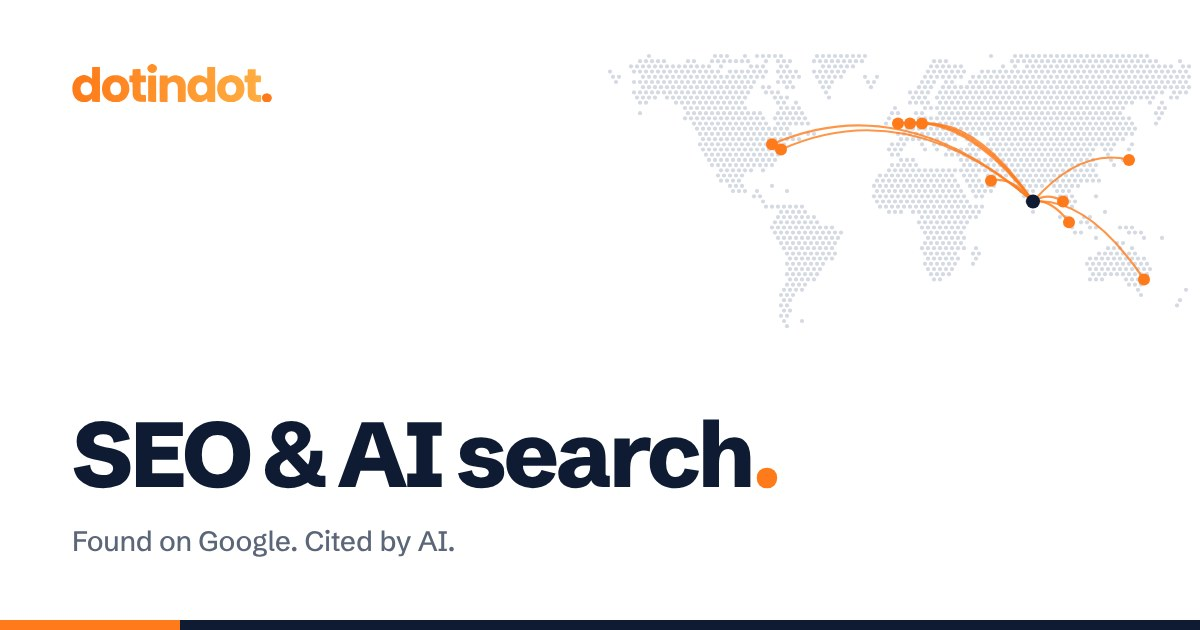
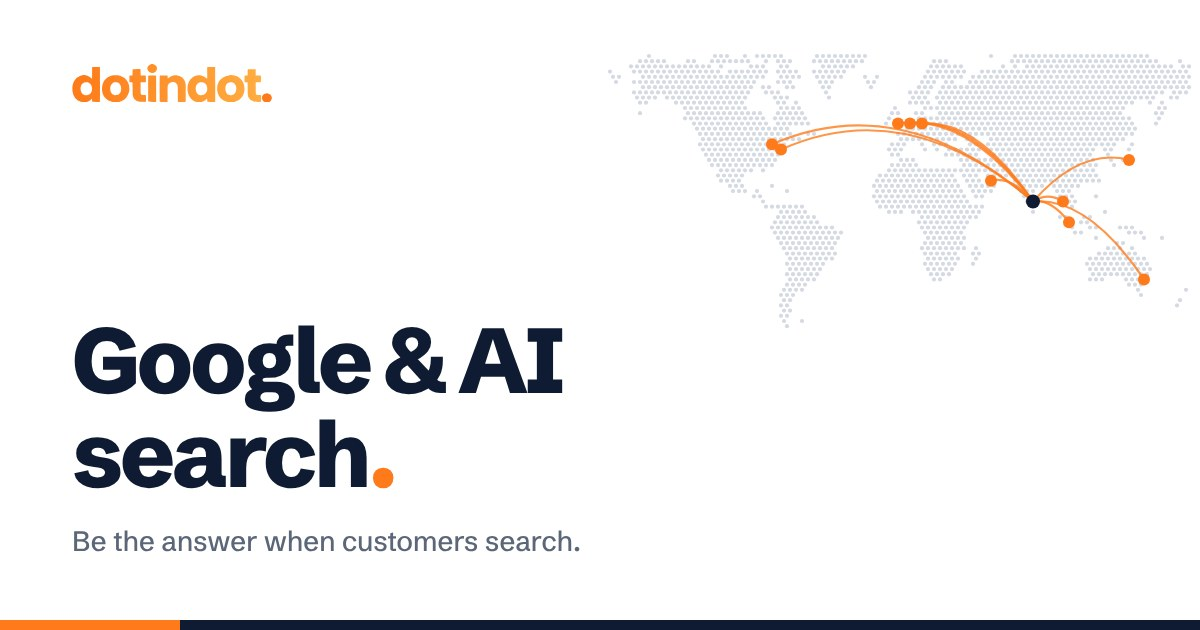
Website: services explained in plain words
Customers found the services hard to understand, so every service page now
starts with what it is in everyday language, how it works in three steps, an
example, what you get and what we need from you. The trade terms move to a
small "Also called" line and a collapsed list for technical teams.

- Plain names: Online ads, Social media, Google & AI search, Websites & apps,
  Logo, brand & video, AI assistants & automation
- Services page starts from the customer's problem ("I want more enquiries",
  "People can't find us on Google", "We miss WhatsApp messages"...) and links
  each to the service, plus common marketing words explained
- Home, process steps, FAQs and why-us copy without jargon
- Dot answers in plain words, suggests the service from the visitor's problem,
  and its starter buttons speak the customer's language
- Search titles keep the terms people search for

Claude-Session: https://claude.ai/code/session_01AozNSP5XY5Cqs16Ewj91ck

Changed region(s): [[0.0617, 0.5127, 0.6475, 0.7841], [0.0617, 0.8444, 0.4933, 0.8746]]

diff --git a/website/src/styles.css b/website/src/styles.css
@@ -129,8 +129,8 @@ a:hover>.go svg,.go:hover svg{transform:translateX(4px)}
   html.js .h-hero .dot{transform:scale(0);animation:pop .8s cubic-bezier(.34,1.56,.64,1) forwards;animation-delay:calc(.62s + var(--i)*.12s)}
   html.js .hero .lead,html.js .hero .btns,html.js .hero .facts{opacity:0;animation:fade .9s var(--ease) forwards}
   html.js .hero .lead{animation-delay:.45s}html.js .hero .btns{animation-delay:.58s}html.js .hero .facts{animation-delay:.72s}
-  html.js .phero .h-page,html.js .phero .lead,html.js .phero .btns,html.js .phero .crumbs{opacity:0;animation:fade .9s var(--ease) forwards}
-  html.js .phero .h-page{animation-delay:.05s}html.js .phero .lead{animation-delay:.18s}html.js .phero .btns{animation-delay:.28s}
+  html.js .phero .h-page,html.js .phero .lead,html.js .phero .aka,html.js .phero .btns,html.js .phero .crumbs{opacity:0;animation:fade .9s var(--ease) forwards}
+  html.js .phero .h-page{animation-delay:.05s}html.js .phero .lead{animation-delay:.18s}html.js .phero .aka{animation-delay:.23s}html.js .phero .btns{animation-delay:.28s}
 }
 @keyframes rise{to{transform:none}}
 @keyframes pop{to{transform:none}}
@@ -540,6 +540,51 @@ input:focus,select:focus,textarea:focus{outline:none;border-color:var(--ink);box
 .timeline{display:grid;border-top:1px solid var(--line)}
 .timeline li{display:grid;grid-template-columns:130px 1fr;gap:20px;padding:16px 0;border-bottom:1px solid var(--line)}
 .timeline b{font-weight:650}.timeline span{color:var(--ink-2)}
+/* service pages, plain words first */
+.phero .aka{margin-top:14px;font-size:.9375rem;color:var(--slate)}
+button.link{background:none;border:0;padding:0;font:inherit;cursor:pointer}
+.plain-t{font-size:clamp(1.25rem,2.1vw,1.6875rem);line-height:1.5;font-weight:500;letter-spacing:-.012em;color:var(--ink);max-width:34em}
+.flow{display:grid;margin-top:56px;border-top:1px solid var(--line);counter-reset:flow}
+.flow li{position:relative;counter-increment:flow;padding:24px 0 24px 64px;border-bottom:1px solid var(--line)}
+.flow li::before{content:counter(flow);position:absolute;left:0;top:20px;display:grid;place-items:center;width:40px;height:40px;border-radius:50%;background:var(--ink);color:#fff;font-weight:700;font-size:1rem}
+.flow b{display:block;font-size:1.1875rem;font-weight:700;letter-spacing:-.015em;color:var(--ink)}
+.flow span{display:block;margin-top:4px;color:var(--slate);line-height:1.5}
+@media (min-width:900px){
+  .flow{grid-template-columns:repeat(3,1fr);border:0}
+  .flow li{padding:68px 36px 0 0;border:0}
+  .flow li::before{top:0}
+  .flow li:not(:last-child)::after{content:"";position:absolute;top:20px;left:56px;right:16px;height:1px;background:var(--line-2)}
+}
+.example{margin-top:48px;padding:24px 28px;border:1px solid var(--line);border-radius:14px;background:var(--mist)}
+.example .label{margin-bottom:8px}
+.example p:last-child{font-size:1.0625rem;line-height:1.65;color:var(--ink-2);max-width:46em}
+.ask{display:grid;border-top:1px solid var(--line)}
+.ask li{position:relative;padding:16px 0 16px 28px;border-bottom:1px solid var(--line);color:var(--ink-2)}
+.ask li::before{content:"";position:absolute;left:0;top:1.4em;width:10px;height:10px;border-radius:50%;border:2px solid var(--ink)}
+details.tech{border-top:1px solid var(--line);border-bottom:1px solid var(--line)}
+.tech summary{display:flex;justify-content:space-between;align-items:center;gap:24px;min-height:44px;padding:18px 0;cursor:pointer;list-style:none;font-weight:650}
+.tech summary::-webkit-details-marker{display:none}
+.tech summary i{position:relative;flex:none;width:16px;height:16px}
+.tech summary i::before,.tech summary i::after{content:"";position:absolute;left:0;top:7px;width:16px;height:2px;background:var(--ink);transition:transform .3s var(--ease)}
+.tech summary i::after{transform:rotate(90deg)}.tech[open] summary i::after{transform:rotate(0)}
+.tech-b{padding:0 0 24px}.tech-b p{color:var(--slate);margin-bottom:12px}
+.tech-b ul{display:grid;gap:8px}.tech-b li{position:relative;padding-left:18px;color:var(--ink-2);line-height:1.5}
+.tech-b li::before{content:"";position:absolute;left:0;top:.62em;width:6px;height:6px;border-radius:50%;background:var(--line-2)}
+.words-link{margin-top:20px;color:var(--slate)}
+/* services page: start from the problem */
+.needs{display:grid;border-top:1px solid var(--line)}
+.need-row{display:grid;grid-template-columns:1fr auto;gap:8px 24px;align-items:center;padding:22px 4px;border-bottom:1px solid var(--line);color:var(--ink);transition:background .25s var(--ease)}
+.need-row:hover{background:var(--mist)}.need-row:focus-visible{outline:3px solid var(--brand);outline-offset:-3px}
+.need-q{font-size:clamp(1.125rem,1.6vw,1.375rem);font-weight:650;letter-spacing:-.015em;line-height:1.3}
+.need-a{grid-column:1;display:grid;gap:2px}.need-a b{font-weight:650;color:var(--orange-ink)}.need-a small{font-size:.9375rem;color:var(--slate);line-height:1.45}
+.need-go{grid-column:2;grid-row:1/3;display:grid;place-items:center;width:44px;height:44px;border-radius:50%;border:1px solid var(--line-2);transition:background .25s,border-color .25s,transform .3s var(--ease)}
+.need-go svg{width:18px;height:18px}.need-row:hover .need-go{background:var(--brand);border-color:var(--brand);transform:translateX(4px)}
+.need-row.unsure .need-q{color:var(--slate)}
+@media (min-width:900px){.need-row{grid-template-columns:minmax(0,5fr) minmax(0,5fr) auto;padding:26px 8px}.need-a{grid-column:2;grid-row:1}.need-go{grid-column:3;grid-row:1}}
+.words{display:grid;column-gap:56px;border-top:1px solid var(--line)}
+.words>div{padding:20px 0;border-bottom:1px solid var(--line)}
+.words dt{font-weight:700;color:var(--ink)}.words dd{margin:4px 0 0;color:var(--ink-2);line-height:1.55}
+@media (min-width:760px){.words{grid-template-columns:1fr 1fr}}
 .related{display:grid;gap:0;border-top:1px solid var(--line)}
 .related a{position:relative;display:grid;gap:6px;padding:22px 0;border-bottom:1px solid var(--line)}
 .related b{font-size:1.125rem;font-weight:650;letter-spacing:-.01em;transition:color .2s}.related span{color:var(--slate);font-size:.9375rem}

diff --git a/website/src/site.js b/website/src/site.js
@@ -570,8 +570,8 @@
       reset: '<svg viewBox="0 0 24 24" fill="none" stroke="currentColor" stroke-width="2" stroke-linecap="round" stroke-linejoin="round"><path d="M3 12a9 9 0 1 0 3-6.7L3 8"/><path d="M3 3v5h5"/></svg>',
       x: '<svg viewBox="0 0 24 24" fill="none" stroke="currentColor" stroke-width="2.2" stroke-linecap="round"><path d="M6 6l12 12M18 6L6 18"/></svg>'
     };
-    var STARTERS = [["leads", "Get more leads", "Ads that pay for themselves", "I want more leads from ads"], ["web", "Build a website", "Fast sites that convert", "We need a new website"],
-      ["seo", "Rank on Google & AI", "SEO and AI search", "How do we rank on Google and in AI assistants?"], ["ai", "Automate with AI", "Chat, follow-up, reports", "Can you automate our lead follow-up with AI?"]];
+    var STARTERS = [["leads", "Get more customers", "Ads that bring enquiries", "I want more enquiries and sales"], ["web", "A new website", "Fast, and brings enquiries", "We need a new website"],
+      ["seo", "Get found on Google", "And in ChatGPT answers", "People can't find us on Google. How can you help?"], ["ai", "Never miss a message", "AI replies on WhatsApp", "Can AI reply to our WhatsApp enquiries?"]];
     var fab, hint, panel, log, chipBox, ta, sendBtn, busy = false;
     var escH = function (t) { return String(t).replace(/&/g, "&amp;").replace(/</g, "&lt;").replace(/>/g, "&gt;").replace(/"/g, "&quot;"); };
 

diff --git a/backend/routes_chat.py b/backend/routes_chat.py
@@ -152,7 +152,7 @@ async def _save_lead(s: dict) -> bool:
 
 
 # ------------------------------------------------------------------ guided conversation (no AI needed)
-SERVICE_CHIPS = ["More leads from ads", "A new website", "SEO & AI search", "Social media", "AI chat & automation"]
+SERVICE_CHIPS = ["More enquiries from ads", "A new website", "Get found on Google", "Social media posts", "AI that replies to customers", "Not sure yet"]
 
 
 def _guided(s: dict, text: str, cfg: dict) -> dict:
@@ -212,6 +212,7 @@ What to do, in order:
 
 Rules:
 - Reply in the visitor's language. At most 70 words, plain text, no headings or tables. Use a link from the facts when it helps.
+- Talk like a helpful person, not a marketer: everyday words, short sentences. Use the plain service names and "in_simple_words" descriptions from the facts. Avoid jargon (SEO, CRM, leads, funnel, ROAS, conversion); if you must use a term, explain it in a few words, as in "words_explained". If the visitor isn't sure what they need, ask what problem they want solved and suggest the matching service from "needs_to_service".
 - Use only the facts below. If you don't know something, say a specialist will confirm it. Never invent prices, clients, results, guarantees, team members or deadlines.
 - Pricing: every engagement starts with a free audit and a fixed quotation; never a percentage of ad spend; retainers are month to month. Don't quote figures.
 - Never ask for passwords, payment details or other sensitive information.
